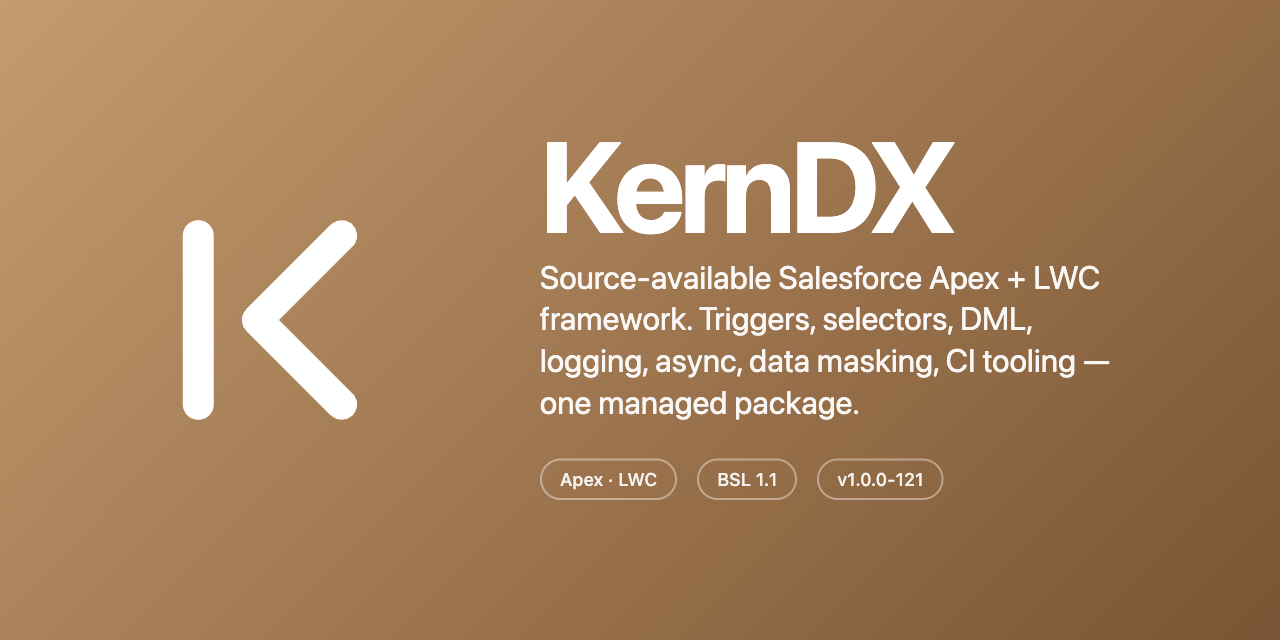
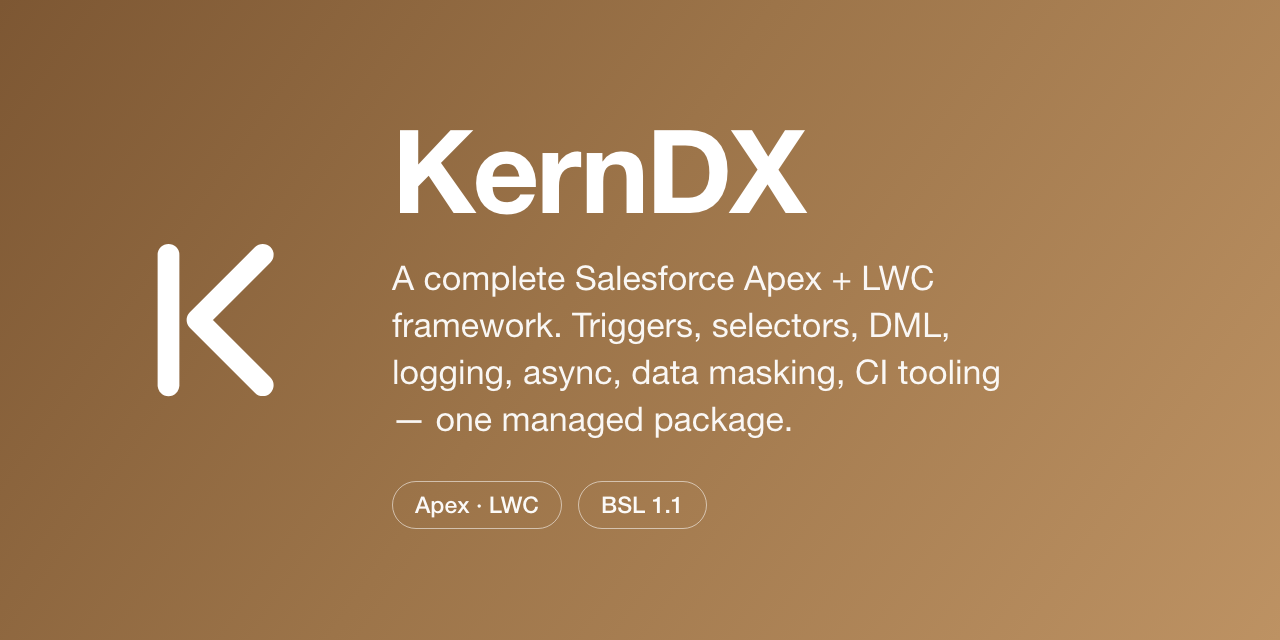
Refresh the documentation site social card and homepage description (#7)
Patched from source commit e3182c5849.

diff --git a/README.md b/README.md
@@ -3,9 +3,9 @@
 [![Coverage](https://img.shields.io/badge/coverage-100%25%20Apex%20%2F%2095%25%20LWC-brightgreen.svg)](./docs/Code%20Conventions%20-%20Guide.md)
 [![Version](https://img.shields.io/badge/version-1.1.0--11-blue.svg)](./RELEASE-PROVENANCE.json)
 [![License: BSL 1.1](https://img.shields.io/badge/license-BSL%201.1-orange.svg)](./LICENSE)
-[![Documentation](https://img.shields.io/badge/docs-online-blue.svg)](https://jvb-consulting.github.io/kerndx/)
+[![Documentation](https://img.shields.io/badge/docs-online-blue.svg)](https://docs.jvb-consulting.io/)
 
-📚 **[Browse the documentation site](https://jvb-consulting.github.io/kerndx/)** — the same Fast Starts, Strategic Guides, and Apex reference under `docs/`, rendered and searchable.
+📚 **[Browse the documentation site](https://docs.jvb-consulting.io/)** — the same Fast Starts, Strategic Guides, and Apex reference under `docs/`, rendered and searchable.
 
 Ship Apex and LWC features in a fraction of the time.
 
